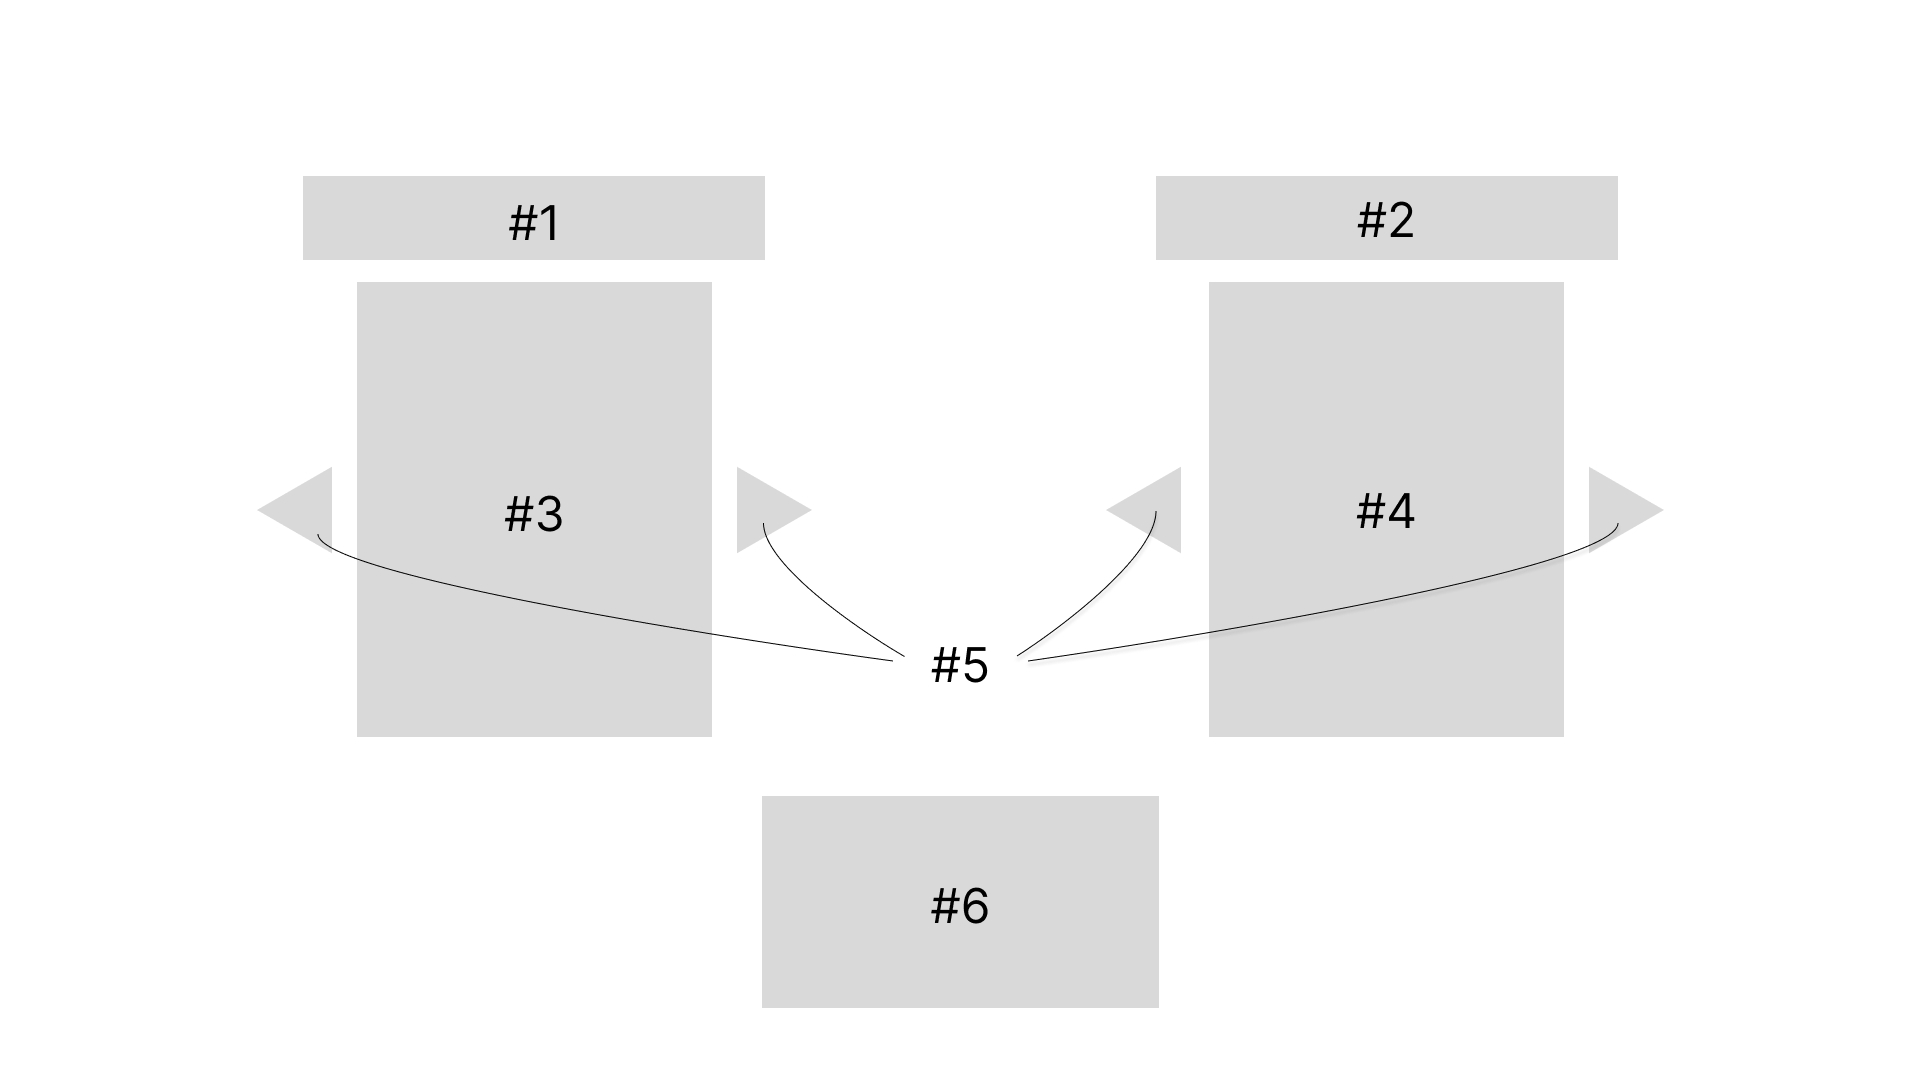
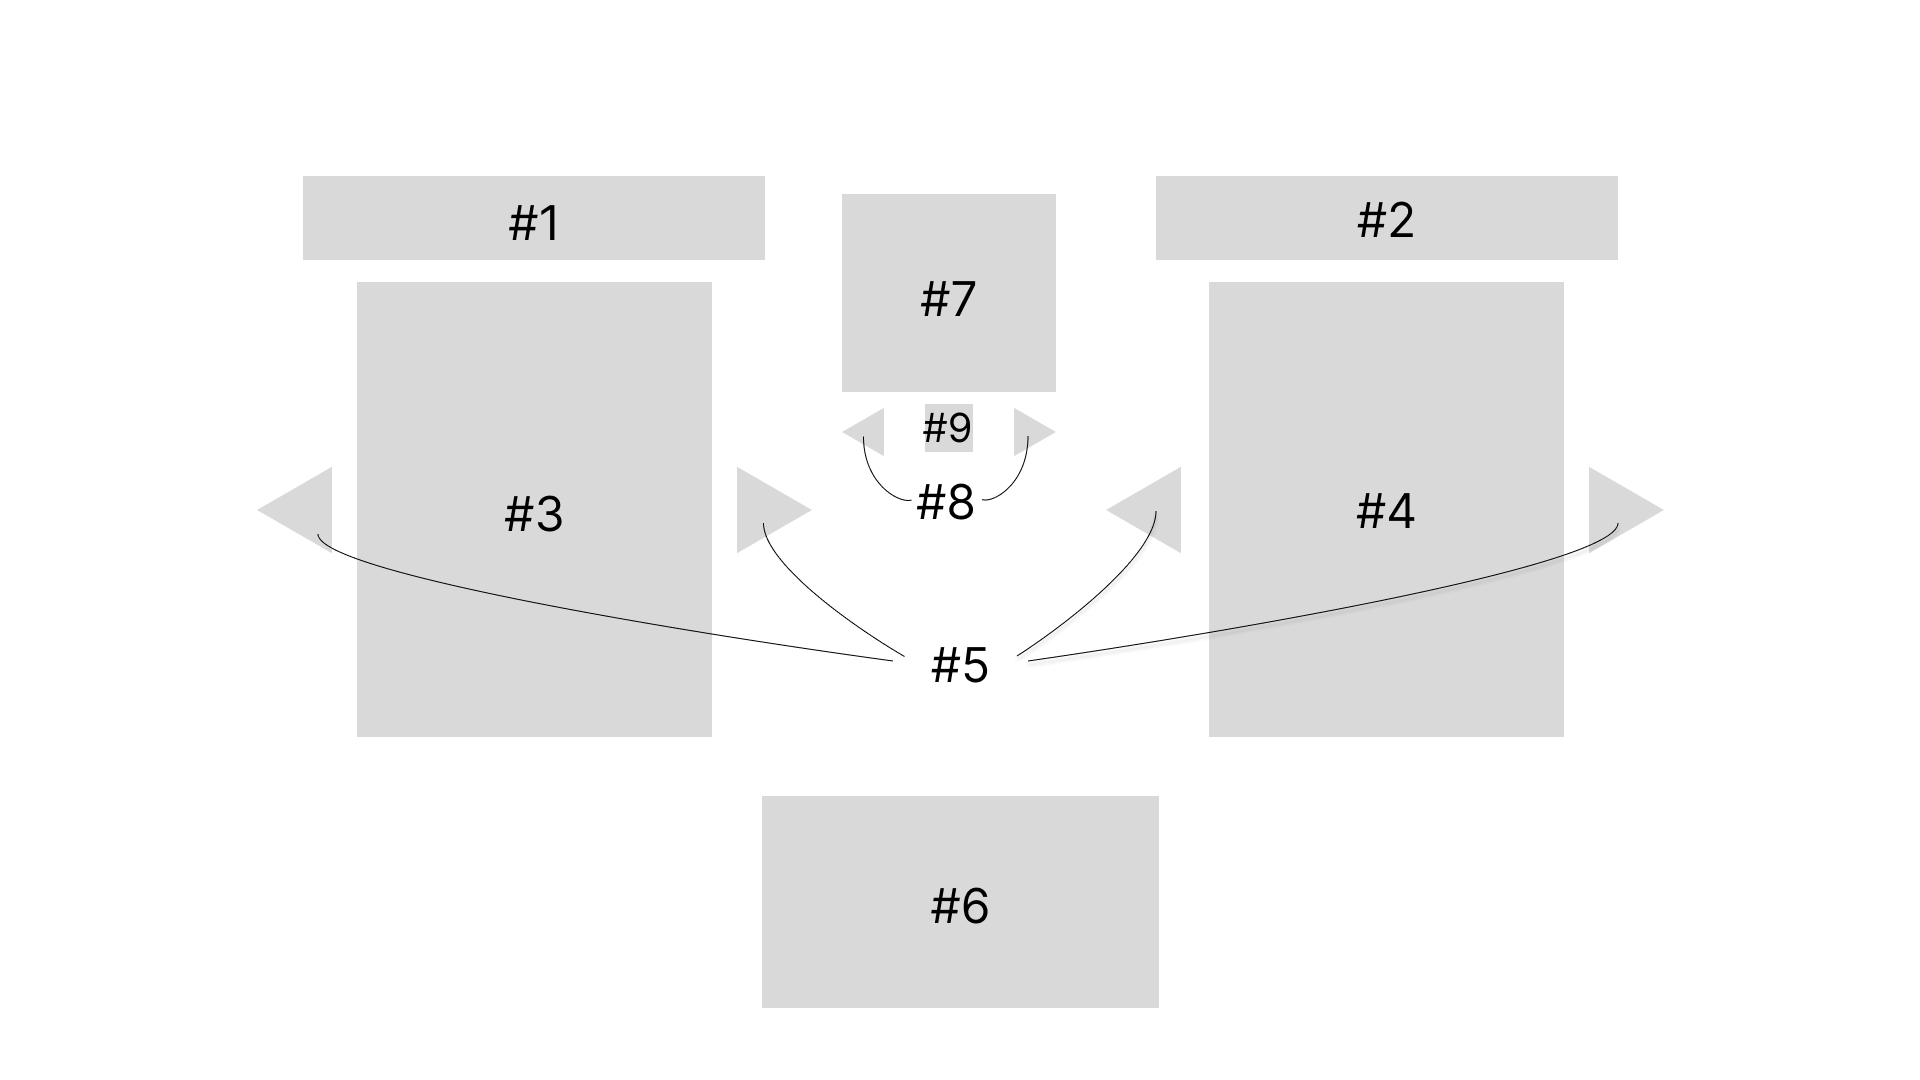
10. Képernyőtervek - Karakterválasztó
+ Pálya választó

Changed region(s): [[0.4375, 0.1528, 0.5625, 0.4278], [0.4688, 0.4583, 0.5312, 0.4889]]

diff --git a/funkcionálisspecifikacio.md b/funkcionálisspecifikacio.md
@@ -47,6 +47,9 @@
 - **#4** - Itt jelenik meg a 2-es játkos karaktere.
 - **#5** - Karakterválasztó nyilak.
 - **#6** - Erre a gombra kattintva indul a játék. Megnyílik a Játéktér.
+- **#7** - Pálya előnézete.
+- **#8** - Pálya választó nyilak.
+- **#9** - Dobókocka ikon. Kattintásra véletlen választ egy pályát.
 ![Karakterválasztó](https://github.com/W4uR/SZFM-Bomberman/assets/37939001/21bcee20-5300-4563-a827-86f5d8436611)
 
 
